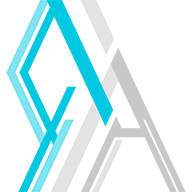
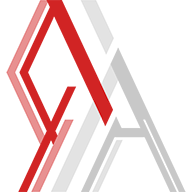
Update branding

Changed region(s): [[0.0312, 0.0, 0.5938, 1.0]]

diff --git a/Source_Assets/css/components/_mainNavigationBar.scss b/Source_Assets/css/components/_mainNavigationBar.scss
@@ -64,11 +64,11 @@
                         width: 221px;
             
                         &.active {
-                            background-color: $colour-blue-darkest-trans-low;
+                            background-color: $colour-red-darkest-trans-low;
                         }
             
                         &:hover {
-                            background-color: $colour-blue-darker-trans-low;
+                            background-color: $colour-red-darker-trans-low;
                         }
             
                         img {
@@ -133,7 +133,7 @@
                                     }
                     
                                     &:nth-child(4) {
-                                        color: $colour-blue-main;
+                                        color: $colour-red-main;
                                     }
                                 }
             
@@ -278,12 +278,12 @@
                                             }
                         
                                             &.active {
-                                                background-color: $colour-blue-darkest-trans-low;
+                                                background-color: $colour-red-darkest-trans-low;
                                                 color: $colour-white !important;
                                             }
                         
                                             &:hover {
-                                                background-color: $colour-blue-darker-trans-low;
+                                                background-color: $colour-red-darker-trans-low;
                                                 color: $colour-white !important;
                                             }
                                         }
@@ -314,11 +314,11 @@
                     }
             
                     &.active {
-                        background-color: $colour-blue-darkest-trans-low;
+                        background-color: $colour-red-darkest-trans-low;
                     }
             
                     &:hover {
-                        background-color: $colour-blue-darker-trans-low;
+                        background-color: $colour-red-darker-trans-low;
                     }
                 }
             
@@ -363,11 +363,11 @@
                     }
                     
                     &.active {
-                        background-color: $colour-blue-darkest-trans-low;
+                        background-color: $colour-red-darkest-trans-low;
                     }
             
                     &:hover {
-                        background-color: $colour-blue-darker-trans-low;
+                        background-color: $colour-red-darker-trans-low;
                     }
                 }
             }

diff --git a/Source_Assets/css/_variables.scss b/Source_Assets/css/_variables.scss
@@ -48,13 +48,13 @@ $colour-grey-10-trans-high: rgba($colour-grey-10, $colour-trans-high);
 // Colours Grey
 
 // Colors Red
-$colour-red-lightest: rgb(255, 107, 163);
-$colour-red-lighter: rgb(245, 81, 137);
-$colour-red-light: rgb(220, 56, 112);
-$colour-red-main: rgb(194, 30, 86);
-$colour-red-dark: rgb(169, 5, 61);
-$colour-red-darker: rgb(143, 0, 35);
-$colour-red-darkest: rgb(118, 0, 10);
+$colour-red-lightest: rgb(255, 113, 113);
+$colour-red-lighter: rgb(255, 87, 87);
+$colour-red-light: rgb(235, 62, 62);
+$colour-red-main: rgb(209, 36, 36);
+$colour-red-dark: rgb(184, 11, 11);
+$colour-red-darker: rgb(158, 0, 0);
+$colour-red-darkest: rgb(144, 0, 0);
 
 $colour-red-lightest-trans-low: rgba($colour-red-lightest, $colour-trans-low);
 $colour-red-lighter-trans-low: rgba($colour-red-lighter, $colour-trans-low);

diff --git a/Source_Assets/index.html b/Source_Assets/index.html
@@ -9,7 +9,7 @@
     <meta name="title" content="UEE Star Aether" />
     <meta name="description" content="Home to the cutting edge corner of the verse, where each and every citizen, pirate, syndicate leader and alike can learn a little more." />
     <meta name="viewport" content="width=device-width, initial-scale=1">
-    <meta name="theme-color" content="#00C8E1" />
+    <meta name="theme-color" content="#d12424" />
 
     <!-- Open Graph / Facebook -->
     <meta property="og:type" content="website" />
